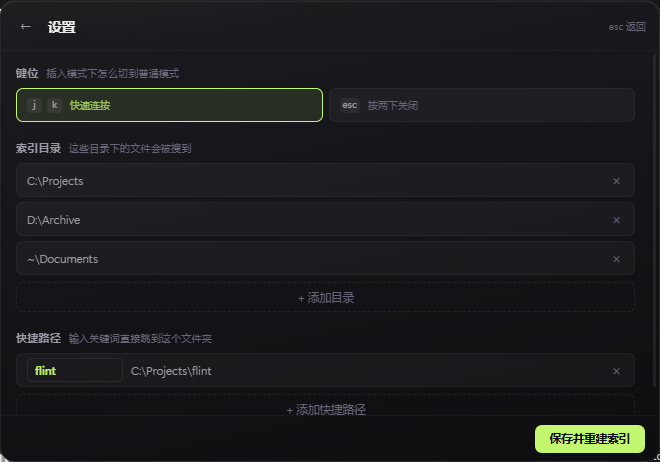
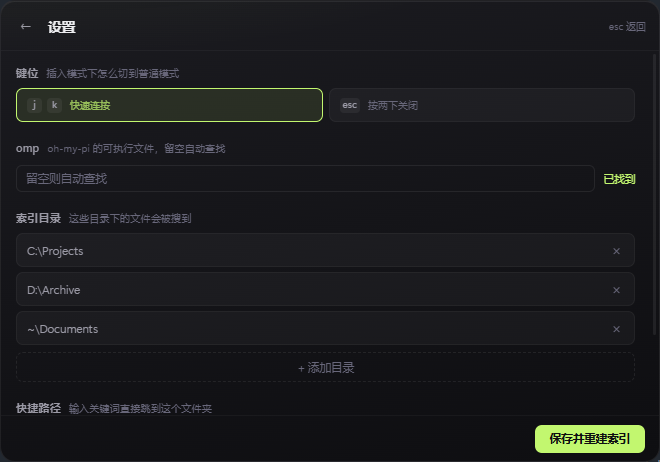
feat(settings): pick the omp binary, and degrade cleanly without it
Not everyone has oh-my-pi installed, and the launcher has to be complete
without it. omp is now probed once at startup: when it is missing, `?` explains
where to point Flint, the Tab action and both command-palette entries simply
are not rendered, and `askOmp` re-checks before spawning. Nothing offers a
button that is guaranteed to fail.

Settings grew an omp row: the path (empty means auto-detect) and whether it
currently resolves, shown next to the field. Saving re-probes immediately, so
the question mark starts working without a restart.

Also moves the two omp commands below the existing ones. Putting them first
changed what `>` + Enter does — that had been "设置" since the panel existed,
and muscle memory should not be rewritten by a feature addition.

README covers all of it, including what happens when omp is absent.

diff --git a/ui/app.js b/ui/app.js
@@ -265,19 +265,6 @@ async function loadIcons() {
 
 const COMMANDS = [
   {
-    id: "omp",
-    name: "问 omp",
-    desc: "把问题发给 oh-my-pi，答案显示在这里",
-    keepOpen: true,
-    run: () => startAskPrompt(),
-  },
-  {
-    id: "omp-open",
-    name: "在 omp 中打开",
-    desc: "在家目录开一个 omp 终端会话",
-    run: () => invoke("omp_open", { dir: "" }),
-  },
-  {
     id: "settings",
     name: "设置",
     desc: "索引目录与快捷路径",
@@ -305,6 +292,19 @@ const COMMANDS = [
       await invoke("set_autostart_cmd", { enable: next });
       meta(next ? "已设为开机自动启动" : "已取消开机自动启动");
     },
+  },
+  {
+    id: "omp",
+    name: "问 omp",
+    desc: "把问题发给 oh-my-pi，答案显示在这里",
+    keepOpen: true,
+    run: () => startAskPrompt(),
+  },
+  {
+    id: "omp-open",
+    name: "在 omp 中打开",
+    desc: "在家目录开一个 omp 终端会话",
+    run: () => invoke("omp_open", { dir: "" }),
   },
   {
     id: "quit",
@@ -361,10 +361,12 @@ function actionsFor(h) {
       name: "在此处打开终端",
       run: () => invoke("open_terminal", { path: h.path }),
     });
-    out.push({
-      name: "在此处启动 omp",
-      run: () => invoke("omp_open", { dir: h.path }),
-    });
+    if (ompReady) {
+      out.push({
+        name: "在此处启动 omp",
+        run: () => invoke("omp_open", { dir: h.path }),
+      });
+    }
   }
 
   if (h.kind === "file" && !virtual) {
@@ -431,7 +433,9 @@ function closeActions() {
 function renderCommands(raw) {
   const q = raw.toLowerCase();
   const list = COMMANDS.filter(
-    (c) => !q || c.name.toLowerCase().includes(q) || c.id.includes(q)
+    (c) =>
+      (ompReady || !c.id.startsWith("omp")) &&
+      (!q || c.name.toLowerCase().includes(q) || c.id.includes(q))
   );
 
   hits = list.map((c) => ({
@@ -452,6 +456,24 @@ function renderCommands(raw) {
    `?question` hands the text to oh-my-pi and streams the answer into the
    palette. Rust owns the process; this side only appends text, batched through
    requestAnimationFrame so a fast token stream cannot outrun the compositor. */
+/* Whether omp was found. Everything omp-related hides itself when it is not:
+   the launcher has to be fully usable without an agent installed. */
+let ompReady = false;
+let ompProbed = false;
+
+async function refreshOmp() {
+  try {
+    const s = await invoke("omp_status");
+    ompReady = !!s.found;
+    return s;
+  } catch (_) {
+    ompReady = false;
+    return { found: false, path: "" };
+  } finally {
+    ompProbed = true;
+  }
+}
+
 let askOpen = false;
 let askBuf = "";
 let askPending = "";
@@ -496,6 +518,15 @@ function startAskPrompt() {
 async function askOmp(question) {
   const q = question.trim();
   if (!q) return;
+
+  if (!ompReady) {
+    await refreshOmp();
+    if (!ompReady) {
+      meta("没有找到 omp：> 设置 → omp 里填路径");
+      renderAskHint(q);
+      return;
+    }
+  }
 
   askOpen = true;
   askBuf = "";
@@ -542,11 +573,15 @@ function renderAskHint(text) {
   label.textContent = "问 omp";
 
   const body = document.createElement("span");
-  body.textContent = text || "输入问题，回车发送";
+  if (!ompReady) {
+    body.textContent = "没有找到 omp —— 可以到 > 设置 里指定可执行文件路径";
+  } else {
+    body.textContent = text || "输入问题，回车发送";
+  }
 
   box.append(label, body);
   $list.append(box);
-  meta(text ? "回车发送给 omp" : "输入问题后回车");
+  meta(!ompReady ? "omp 不可用" : text ? "回车发送给 omp" : "输入问题后回车");
 }
 
 function handleAskKey(e) {
@@ -692,6 +727,8 @@ const $setSave = document.getElementById("set-save");
 const $setMsg = document.getElementById("set-msg");
 const $setBack = document.getElementById("set-back");
 const $kmSeg = document.getElementById("keymap-seg");
+const $ompPath = document.getElementById("omp-path");
+const $ompState = document.getElementById("omp-state");
 
 let settingsOpen = false;
 let draft = null;
@@ -710,6 +747,7 @@ async function openSettings() {
       sources: [...(s.sources || [])],
       max_files: s.max_files || 120000,
       keymap: s.keymap === "esc" ? "esc" : "jk",
+      omp_path: s.omp_path || "",
     };
     keymap = draft.keymap;
   } catch (_) {
@@ -733,6 +771,13 @@ function renderSettings() {
   for (const b of $kmSeg.querySelectorAll("button")) {
     b.setAttribute("aria-pressed", String(b.dataset.km === draft.keymap));
   }
+
+  $ompPath.value = draft.omp_path || "";
+  refreshOmp().then((s) => {
+    $ompState.textContent = s.found ? "已找到" : "没找到";
+    $ompState.dataset.ok = s.found ? "1" : "0";
+    $ompState.title = s.path || "留空则自动查找";
+  });
 
   $rootRows.replaceChildren();
   draft.roots.forEach((p, i) => {
@@ -858,6 +903,7 @@ $setSave.addEventListener("click", async () => {
         max_files: draft.max_files,
         sources,
         keymap: draft.keymap,
+        omp_path: draft.omp_path.trim(),
       },
     });
   } catch (e) {
@@ -870,13 +916,19 @@ $setSave.addEventListener("click", async () => {
     return;
   }
   setMsg(dropped > 0 ? `已保存（跳过 ${dropped} 条没有关键词）· 重建索引用…` : "已保存，正在重建索引…");
-  // Applies immediately — no restart needed to change how Esc behaves.
+  // Applies immediately — no restart needed to change how Esc behaves, or
+  // whether omp is reachable with the path that was just typed.
   keymap = draft.keymap === "esc" ? "esc" : "jk";
   $keys.innerHTML = keyHints(mode);
+  refreshOmp();
   setTimeout(closeSettings, 700);
 });
 
 $setBack.addEventListener("click", closeSettings);
+
+$ompPath.addEventListener("input", () => {
+  if (draft) draft.omp_path = $ompPath.value;
+});
 
 /* ---------- events ---------- */
 $q.addEventListener("input", () => {
@@ -1323,3 +1375,4 @@ document.addEventListener("contextmenu", (e) => e.preventDefault());
   } catch (_) {}
 })();
 reset();
+refreshOmp();

diff --git a/ui/style.css b/ui/style.css
@@ -849,6 +849,46 @@ kbd {
   font-weight: 400;
 }
 
+/* omp executable path: one field, plus whether it currently resolves. */
+.orow {
+  display: flex;
+  align-items: center;
+  gap: 9px;
+  padding-top: 2px;
+}
+
+.oinput {
+  flex: 1 1 auto;
+  min-width: 0;
+  height: 27px;
+  padding: 0 9px;
+  border-radius: 6px;
+  border: 1px solid var(--hair);
+  background: transparent;
+  color: var(--fg);
+  font-family: inherit;
+  font-size: 11.5px;
+  outline: none;
+}
+
+.oinput::placeholder {
+  color: var(--fg-dim);
+}
+
+.oinput:focus {
+  border-color: var(--accent);
+}
+
+.ostate {
+  flex: 0 0 auto;
+  font-size: 10.5px;
+  color: var(--fg-dim);
+}
+
+.ostate[data-ok="1"] {
+  color: var(--accent);
+}
+
 .del {
   flex: 0 0 auto;
   width: 21px;

diff --git a/ui/index.html b/ui/index.html
@@ -62,6 +62,15 @@
         </section>
 
         <section class="grp">
+          <h3>omp<span>oh-my-pi 的可执行文件，留空自动查找</span></h3>
+          <div class="orow">
+            <input class="oinput" id="omp-path" type="text" spellcheck="false"
+                   autocomplete="off" placeholder="留空则自动查找" />
+            <span class="ostate" id="omp-state"></span>
+          </div>
+        </section>
+
+        <section class="grp">
           <h3>索引目录<span>这些目录下的文件会被搜到</span></h3>
           <div class="rows" id="root-rows"></div>
           <button class="add" id="add-root">+ 添加目录</button>

diff --git a/README.md b/README.md
@@ -12,9 +12,11 @@
 
 ## 直接运行
 
-`src-tauri/target/release/flint.exe`（5.9 MB，单文件，无需安装）
+`src-tauri/target/release/flint.exe`（6 MB 左右，单文件，无需安装）
 
 双击后它缩到托盘，按 `Alt+Space` 召唤。
+
+不依赖任何运行时，也不需要配置。装了 [oh-my-pi](https://github.com/can1357/oh-my-pi) 的话，`?` 可以直接在面板里问它；没装就少这一项，其余功能一个不少。
 
 ---
 
@@ -126,7 +128,11 @@
 
 性能上这跟 Flint 没关系：agent 的 250 MB 内存活在它自己的进程里，Flint 只做一次 `CreateProcess` 和一个读管道的线程，不做常驻、不预热、不缓存。
 
-> omp 不在 PATH 里也没关系：Flint 会去 `D:\omp-windows-x64.exe` 这类常见位置找；都不对就在 `%LOCALAPPDATA%\Flint\settings.json` 里填 `omp_path`。
+**没装 omp 也完全不影响用**：搜应用、开文件、切窗口、动作面板、设置，全都照旧。这时候 `?` 会告诉你去找路径，`>` 里不会有 omp 那两条，`Tab` 里也不会冒出「在此处启动 omp」——不给你点一个注定失败的东西。
+
+装了但没找到？`>` → 设置 → **omp**，填上可执行文件路径（比如 `D:\omp-windows-x64.exe`）。保存后右边就会变成「已找到」，`?` 立刻可用，不用重启。
+
+> 留空时 Flint 自动找：先在 `PATH` 里找 `omp.exe`，再看 `D:\omp-windows-x64.exe`、`C:\omp\omp.exe` 这类常见位置，最后试 `%LOCALAPPDATA%` 下的安装目录。
 
 ### 自定义索引目录
 
@@ -137,6 +143,7 @@
 - **加目录**：把任何文件夹纳入索引，里面的文件立刻可搜
 - **加快捷路径**：选一个文件夹，给它起个关键词（比如 `proj`），以后输入 `proj` 直接跳过去——哪怕那个目录里一个文件都还没索引
 - **选键位**：`jk` 还是 `Esc` 切普通模式
+- **填 omp 路径**：留空自动查找，右边会显示找到没
 
 快捷路径在结果里带青柠色的「快捷」徽章，排在应用前面。
 
